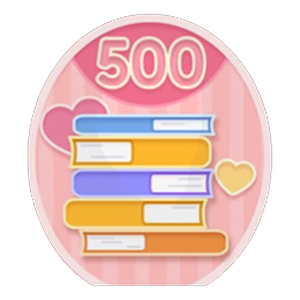
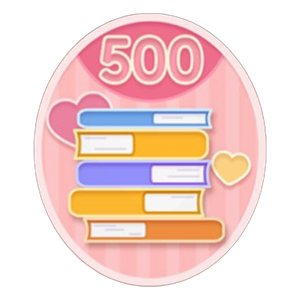
実績バッジ画像の下部切れを修正 (#11)
* 実績バッジ「書籍収集家」「大掃除を極めし者」「風に乗って」の下部切れを修正

切り抜き範囲の高さが不足しており、円形バッジの下部が直線状に
切れていた。元スクショから縦方向の範囲を広げて再切り抜き。

Claude-Session: https://claude.ai/code/session_01K3eMRAeT6oYS9BRu22swvm

* キャッシュバージョンを更新

Claude-Session: https://claude.ai/code/session_01K3eMRAeT6oYS9BRu22swvm

---------

diff --git a/service-worker.js b/service-worker.js
@@ -1,5 +1,5 @@
 // キャッシュ名（更新時はバージョンを上げる）
-const CACHE_NAME = "hatopi-v2.599.0";
+const CACHE_NAME = "hatopi-v2.600.0";
 
 // キャッシュするファイル一覧
 const CACHE_FILES = [
